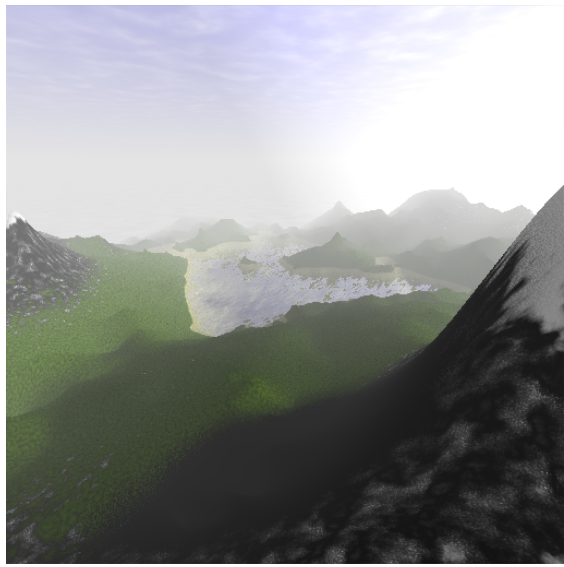
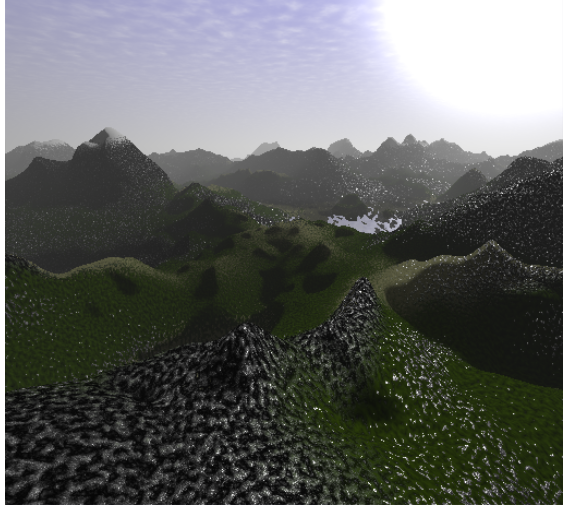
Fix shadows

diff --git a/webgl/landscape.html b/webgl/landscape.html
@@ -171,12 +171,6 @@ float intersectTerrain(inout vec3 pos, in vec3 dir) {
 	    break;
         }
 
-        /* Are we close enough to terrain? */
-	float absHeight = abs(height);
-        if (absHeight < STOPCONDITION * t) {
-	    break;
-        }
-
 	float waterLevel = getWaterLevel(pos);
 	if (pos.z < waterLevel) {
 	    /* underwater; find intersection point. */
@@ -211,9 +205,17 @@ float intersectTerrain(inout vec3 pos, in vec3 dir) {
 		}
 
 	    }
+	    
 	    pos.z = waterLevel;
 	    break;
 	}
+
+        /* Are we close enough to terrain? */
+	float absHeight = abs(height);
+        if (absHeight < STOPCONDITION * t) {
+	    pos.z = fbmQuilez2d(pos.xy * .5, MAPITERATIONS).w;
+	    break;
+        }
 
     }
 
@@ -227,14 +229,18 @@ float calculateShade(in vec3 pos) {
     /* add shadow: use sampling in an attempt of trying to find out the
      * maximum amount the ray from terrain point to sun is goes under terrain. */
     float shadow = 0.;
-    pos += texture2D(uNoise, vPosition).r * SUN * .2;
-    for (int i = 0; i < 4; i ++) {
+    float t = 0.01;
+    for (int i = 0; i < 5; i ++) {
 	/* Positive -> above ground. */
-	float rayHeight = pos.z - fbmQuilez2d(pos.xy * .5, MAPITERATIONS).w;
-	pos += SUN * max(0.2, rayHeight);
-	shadow = min(shadow, rayHeight);
+	vec3 testpos = pos + SUN * t;
+	float rayHeight = testpos.z - fbmQuilez2d(testpos.xy * .5, MAPITERATIONS).w;
+	float inShadow = rayHeight / t - .1;
+	if (inShadow < 0.) {
+	    shadow += inShadow;
+	}
+	t *= 2.;
     }
-    return 1. - clamp(shadow * -5., 0., 1.);
+    return mix(smoothstep(-0.5, 0., shadow), 1., .2);
 }
 
 /* Evaluate rules to find color of terrain point.
